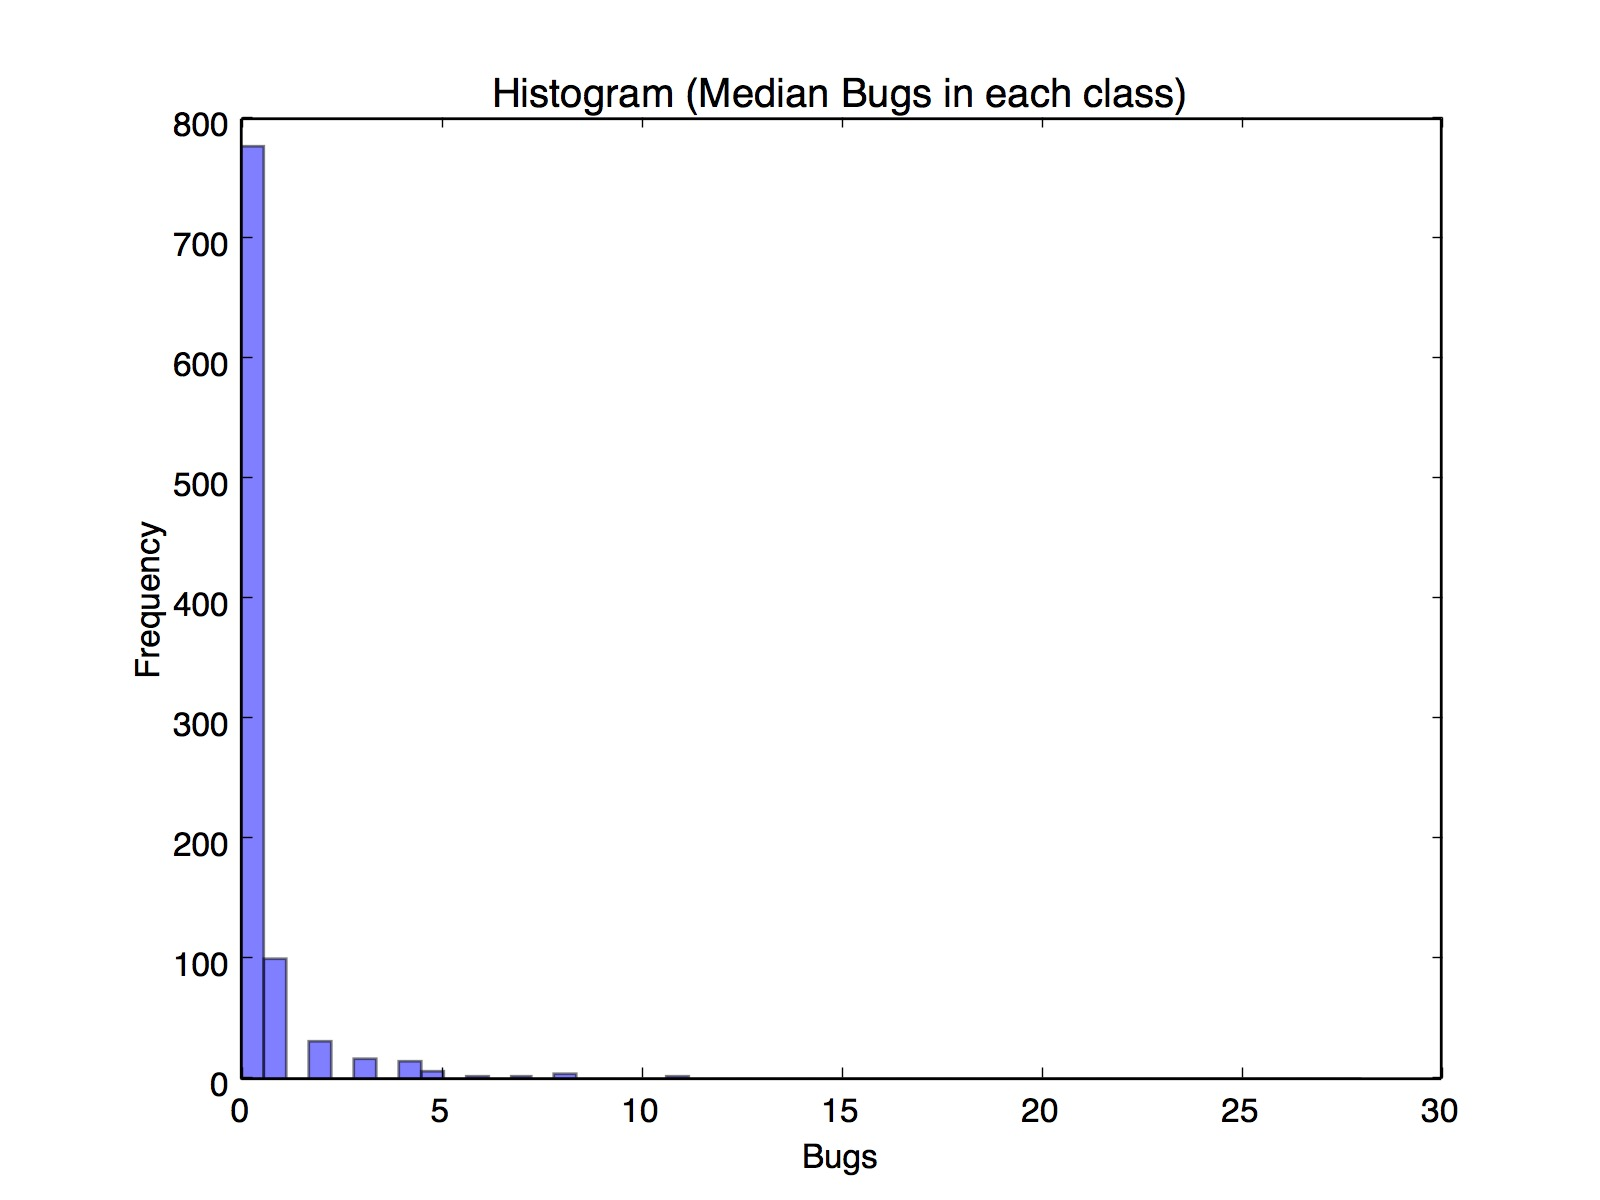
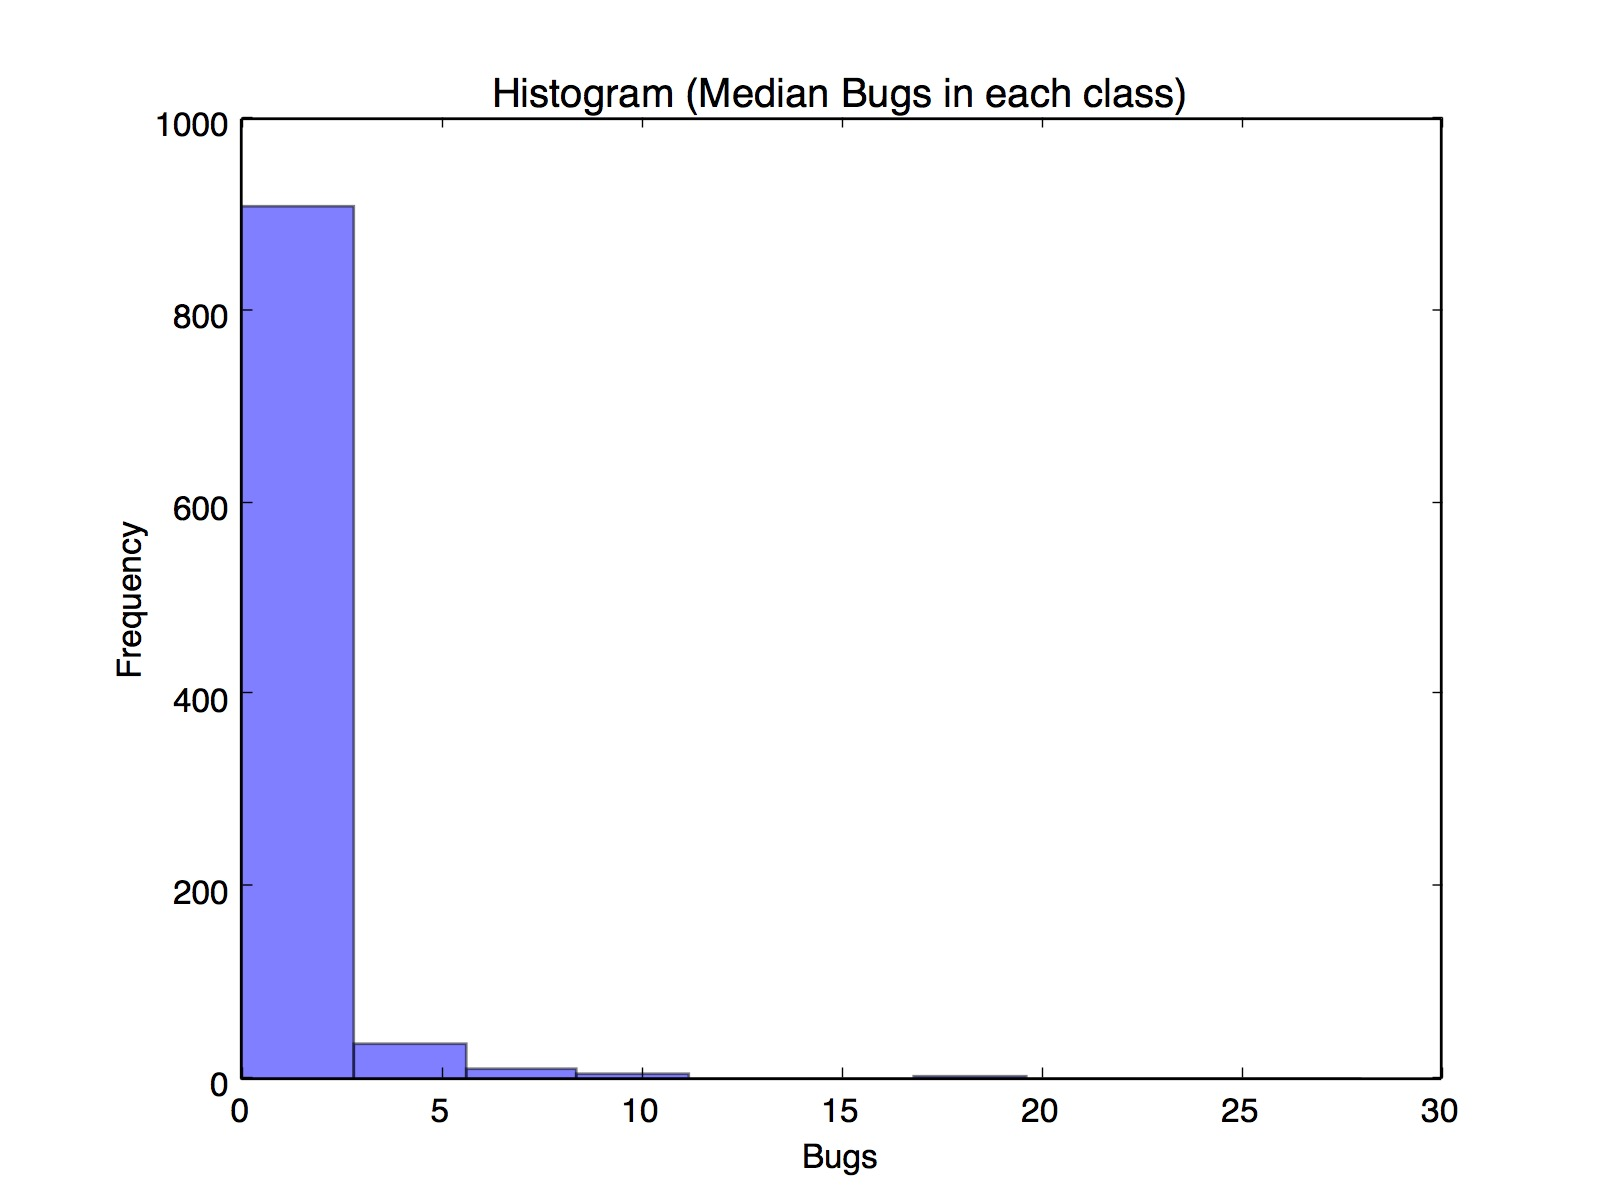
Updates

Changed region(s): [[0.0625, 0.1233, 0.4375, 0.925], [0.0938, 0.0925, 0.125, 0.1233]]

diff --git a/Defects/treatments.py b/Defects/treatments.py
@@ -115,7 +115,7 @@ def rforest(train, test):
   features = train_DF.columns[:-2]
   klass = train_DF[train_DF.columns[-2]];
   clf.fit(train_DF[features], klass)
-  preds = clf.predict(test_DF[features]).tolist()
+  preds = clf.predict(test_DF[test_DF.columns[:-2]]).tolist()
   return preds
 
 def haupt():
@@ -129,7 +129,7 @@ def haupt():
   test_df = createTbl(test[1])
 
   # Save a histogram of unmodified bugs
-  saveImg(Bugs(test_df), num_bins = 50, fname = 'bugsBefore', ext = '.jpg')
+  saveImg(Bugs(test_df), num_bins = 10, fname = 'bugsBefore', ext = '.jpg')
 
   # Find and apply contrast sets
   newTab = _treatments(train_DF = train_DF, test_df = test_df, verbose = False)
@@ -138,7 +138,7 @@ def haupt():
   bugs = rforest(train_DF, newTab)
 
   # Save the histogram after applying contrast sets.
-  saveImg(bugs, num_bins = 50, fname = 'bugsAfter', ext = '.jpg')
+  saveImg(bugs, num_bins = 10, fname = 'bugsAfter', ext = '.jpg')
 
   # <<DEGUG: Halt Code>>
   set_trace()

diff --git a/Defects/methods1.py b/Defects/methods1.py
@@ -53,3 +53,20 @@ def saveImg(x, num_bins = 10, fname = None, ext = None):
  plt.subplots_adjust(left = 0.15)
  plt.savefig(fname + ext)
  plt.close()
+
+def saveImg(x, num_bins = 10, fname = None, ext = None):
+ fname = 'Untitled' if not fname else fname
+ ext = '.jpg' if not ext else ext
+ n, bins, patches = plt.hist(x, num_bins, normed = False,
+                             facecolor = 'blue', alpha = 0.5)
+ # add a 'best fit' line
+ plt.xlabel('Bugs')
+ plt.ylabel('Frequency')
+ plt.title(r'Histogram (Median Bugs in each class)')
+
+ # Tweak spacing to prevent clipping of ylabel
+ plt.subplots_adjust(left = 0.15)
+ plt.savefig(fname + ext)
+ plt.close()
+
+

diff --git a/Defects/rf_test.py b/Defects/rf_test.py
@@ -1,5 +1,6 @@
 from os import walk
 from pdb import set_trace
+from pdb import set_trace
 
 from abcd import _runAbcd
 from dtree import *
@@ -51,7 +52,7 @@ def haupt():
   
   # Testing data
   test_df = createDF(test[1])
-  
+  set_trace()
   features = train_DF.columns[3:-2]
   klass = train_DF[train_DF.columns[-1]];
   clf.fit(train_DF[features], klass)
